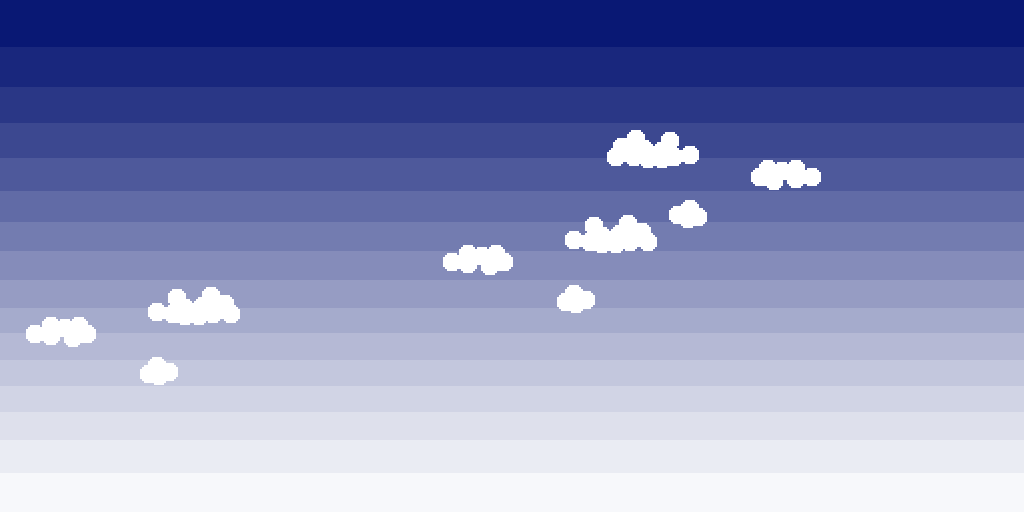
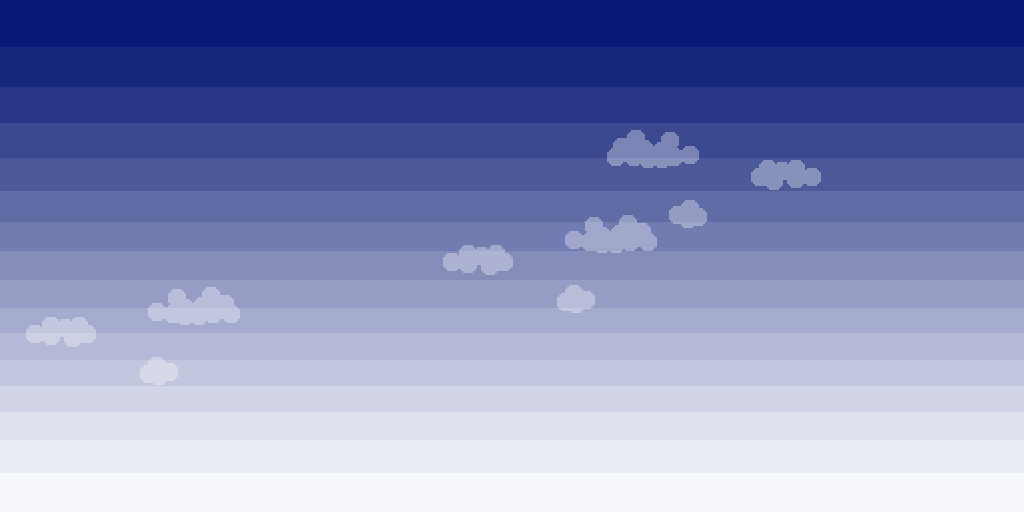
update sky image, sky now scrolls+loops

diff --git a/js/Background.js b/js/Background.js
@@ -1,6 +1,14 @@
 // Background.js
 // drawns the sky and floor
 
+const WIND_SPEED = -0.02; // (pixels per ms)
+
+// FIXME: guessed this magic number: use math instead!
+// so that the sky image offset exactly matches player.rot  
+// I guess we need to calculate...
+// how many radians per canvas pixel (using FOV + canvas width)
+const SKY_ROTATION_FACTOR = -320;
+
 var skyTexture = new Image();
 skyTexture.src = './images/sky.png';
 skyTexture.onload = function() { this.loaded=true; }
@@ -14,15 +22,12 @@ function drawBackground() {
     if (!skyTexture.loaded) return;
     if (!floorTexture.loaded) return;
 
-    // FIXME: guessed this magic number: use math instead!
-    // I guess we need to calculate
-    // how many radians per canvas pixel (using FOV + canvas width)
-    
     // scrolling tiled sky image based on player rotation
-    let skyX = Math.round(player.rot * -320) % skyTexture.width;
+    let wind_offset = performance.now() * WIND_SPEED;
+    let skyX = Math.round(wind_offset + (player.rot * SKY_ROTATION_FACTOR)) % skyTexture.width;
     let skyY = Math.round(canvas.height/2-skyTexture.height);
-    console.log("sky rot:"+player.rot.toFixed(2)+" pos:"+skyX);
-  	canvasContext.drawImage(skyTexture,skyX,skyY);
+    //console.log("sky rot:"+player.rot.toFixed(2)+" pos:"+skyX);
+    canvasContext.drawImage(skyTexture,skyX,skyY);
   	canvasContext.drawImage(skyTexture,skyX+skyTexture.width,skyY);
 
   	// a single static floor gradient with no perspective or rotation
